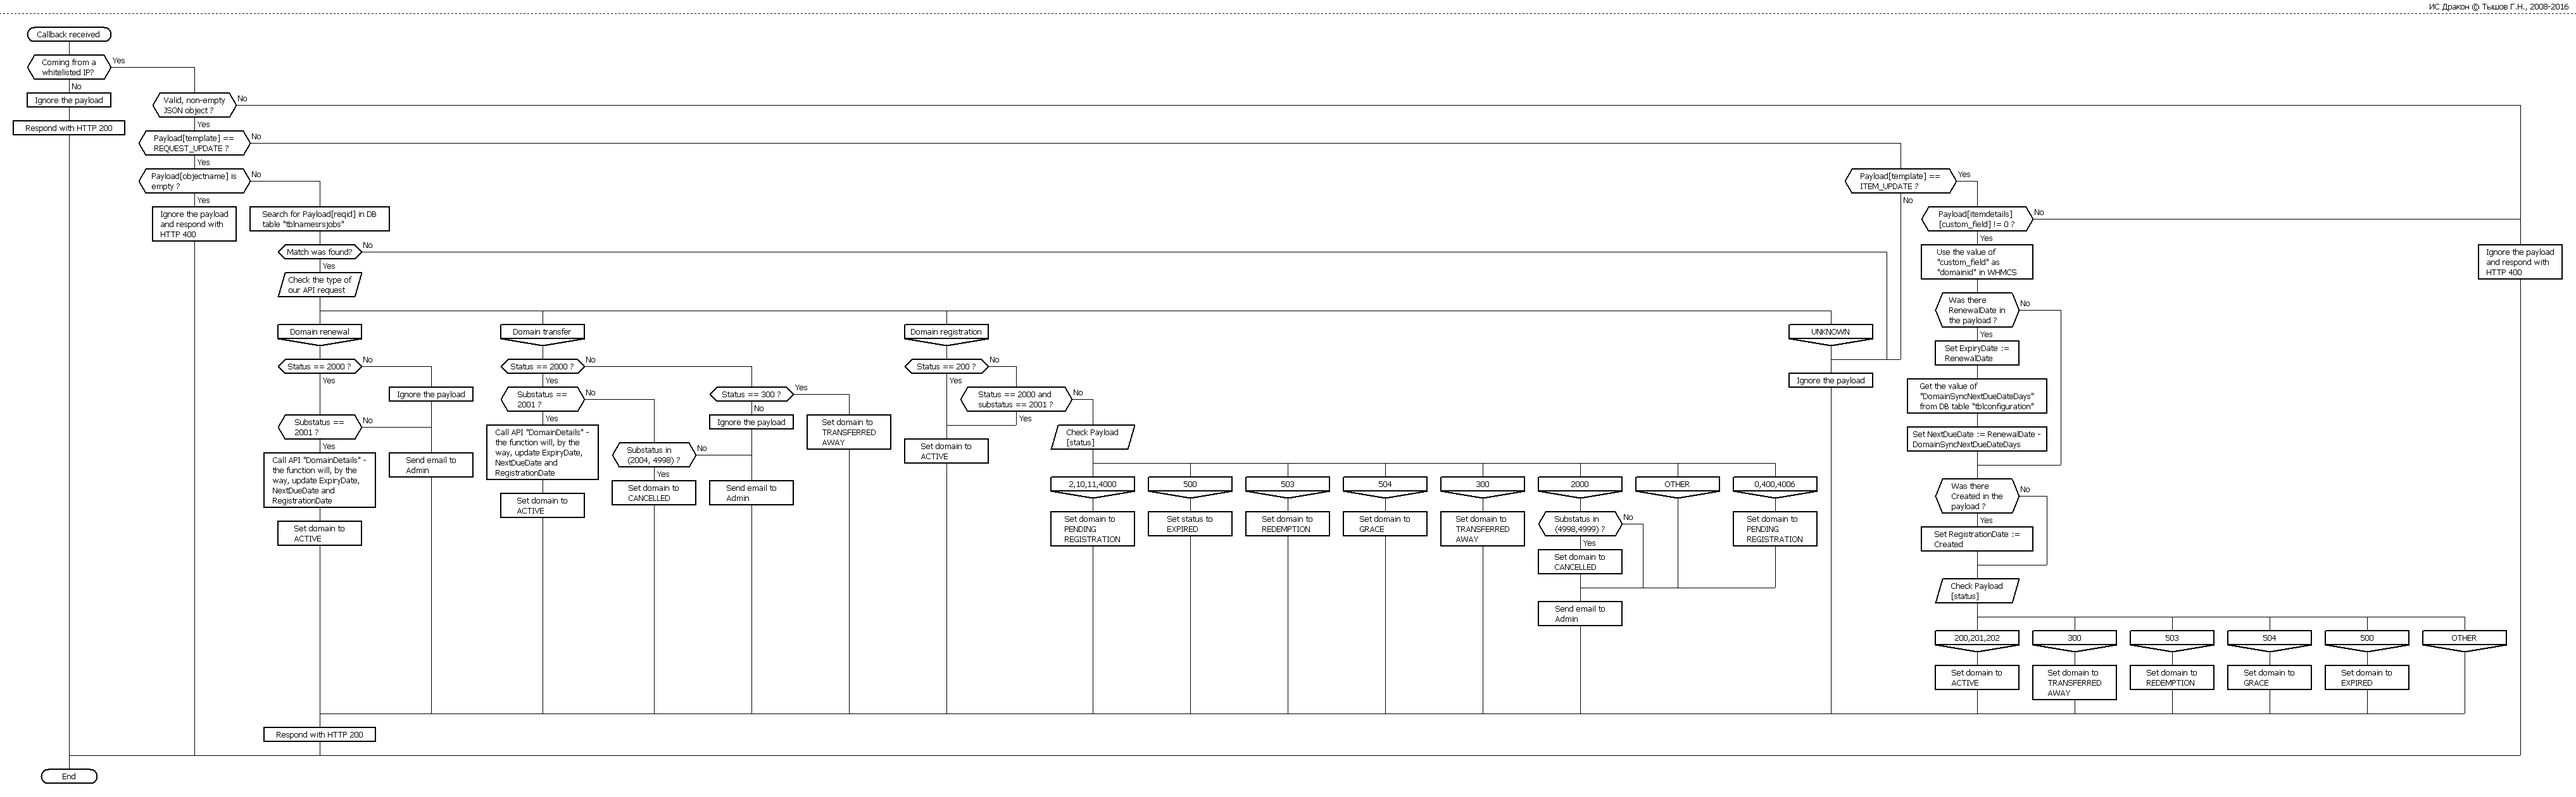
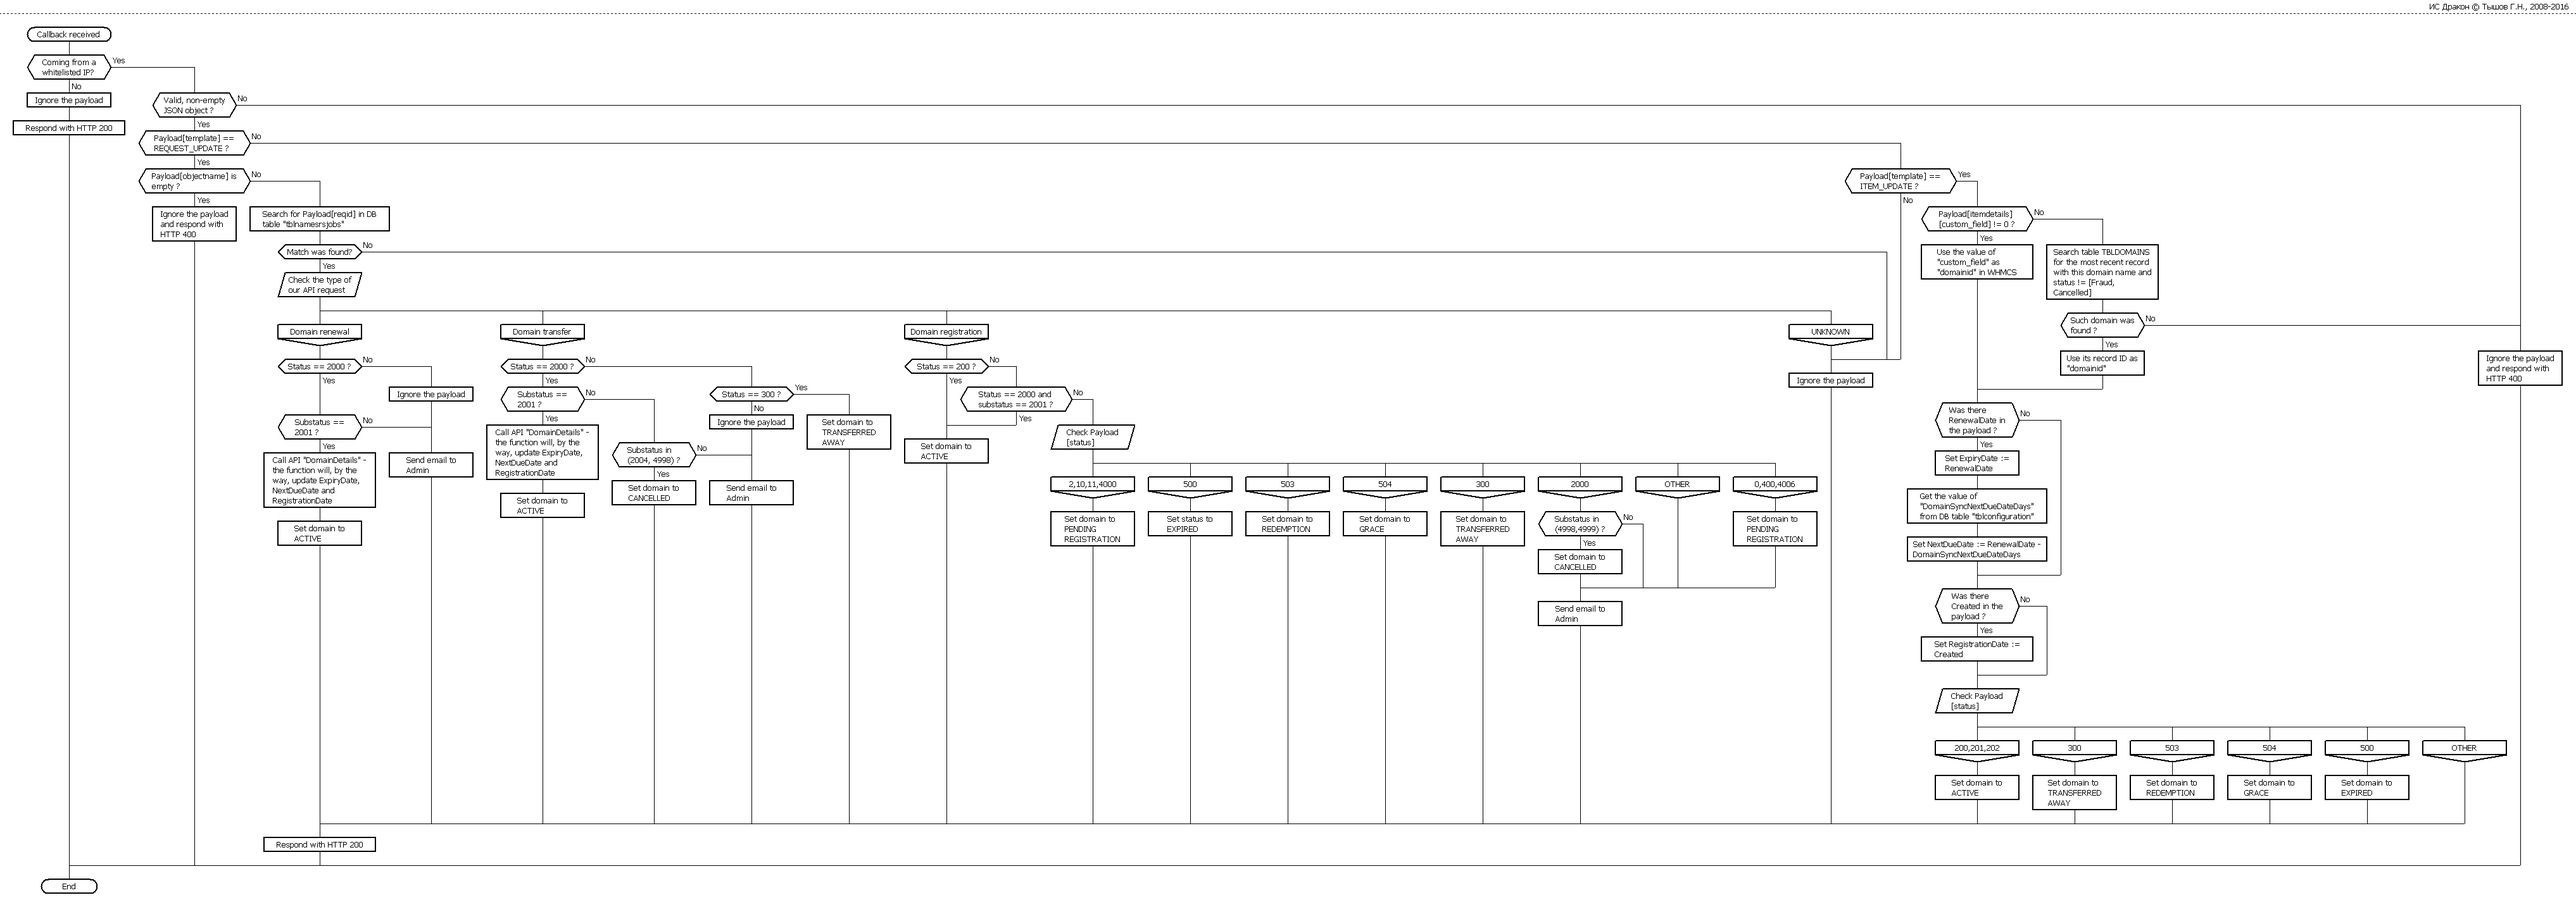
The callback now tries to find the most recent non-Cancelled and non-Fraud domain with the given objectname when there is no custom_field in the ITEM_UPDATE webhook.

diff --git a/modules/registrars/namesrs/callback.php b/modules/registrars/namesrs/callback.php
@@ -3,9 +3,10 @@
 require_once "../../../init.php";
 require_once "../../../includes/registrarfunctions.php";
 require_once "lib/Request.php";
-include __DIR__."/version.php"; 
+include __DIR__."/version.php";
 
 use WHMCS\Database\Capsule as Capsule;
+use WHMCS\Domains\Domain as DomPuny;
 
 $old_error_handler = set_error_handler('myErrorHandler', E_ALL & ~E_NOTICE | E_STRICT);
 header('X-WHMCS: '.VERSION.', '.STAMP);
@@ -104,7 +105,7 @@ if (in_array($_SERVER['REMOTE_ADDR'], [
       echo 'Missing object name';
       logModuleCall(
         'nameSRS',
-        "Missing domain ID - request " . $json['reqid'],
+        "Missing object name",
         $json,
         ''
       );
@@ -113,8 +114,43 @@ if (in_array($_SERVER['REMOTE_ADDR'], [
 	elseif ($json['template'] == 'ITEM_UPDATE')
   {
     $domainid = (int)$json['itemdetails']['custom_field'];
+    if ($domainid == 0)
+    {
+      $domainObj = new DomPuny($json['objectname']);
+      $domainname = $domainObj->getDomain(FALSE); // get UTF-8
+      // find the most recent domain with this name
+      $stm = $pdo->prepare('SELECT id,status FROM tbldomains WHERE registrar = "namesrs" AND domain = :name ORDER BY id DESC');
+      $stm->execute(['name' => $domainname]);
+      $cnt = $stm->rowCount();
+      while($row = $stm->fetch(PDO::FETCH_ASSOC))
+      {
+        if($row['status'] != 'Fraud' AND $row['status'] != 'Cancelled')
+        {
+          $domainid = $row['id'];
+          break;
+        }
+      }
+      if($domainid == 0)
+      {
+        if($cnt == 0) $msg = 'Missing custom_field - objectname "'.$json['objectname'].'" was not found';
+        else $msg = 'Missing custom_field - objectname "'.$json['objectname'].'" was found but status was not PENDING';
+        header('HTTP/1.1 400 '.$msg, TRUE, 400);
+        echo $msg;
+        logModuleCall(
+          'nameSRS',
+          $msg,
+          $json,
+          ''
+        );
+        die;
+      }
+    }
     if ($domainid != 0)
     {
+      // mark all other domains with this name Cancelled
+      $stm = $pdo->prepare('UPDATE tbldomains SET status = "Cancelled" WHERE registrar = "namesrs" AND id <> :id AND domain = :name');
+      $stm->execute(['id' => $domainid, 'name' => $domainname]);
+
       if ($json['status']['mainstatus']) $status = key($json['status']['mainstatus']);
       else $status = '';
       if ($status != '') $status_name = $json['status']['mainstatus'][$status];

diff --git a/modules/addons/namesrs_price/version.php b/modules/addons/namesrs_price/version.php
@@ -1,1 +1,1 @@
-<?php define('VERSION',27); define('STAMP','2019-10-18, 10:41'); 
+<?php define('VERSION',28); define('STAMP','2019-10-20, 13:23'); 

diff --git a/modules/registrars/namesrs/version.php b/modules/registrars/namesrs/version.php
@@ -1,1 +1,1 @@
-<?php define('VERSION',27); define('STAMP','2019-10-18, 10:41'); 
+<?php define('VERSION',28); define('STAMP','2019-10-20, 13:23'); 

diff --git a/modules/servers/namesrsowner/version.php b/modules/servers/namesrsowner/version.php
@@ -1,1 +1,1 @@
-<?php define('VERSION',27); define('STAMP','2019-10-18, 10:41'); 
+<?php define('VERSION',28); define('STAMP','2019-10-20, 13:23'); 
